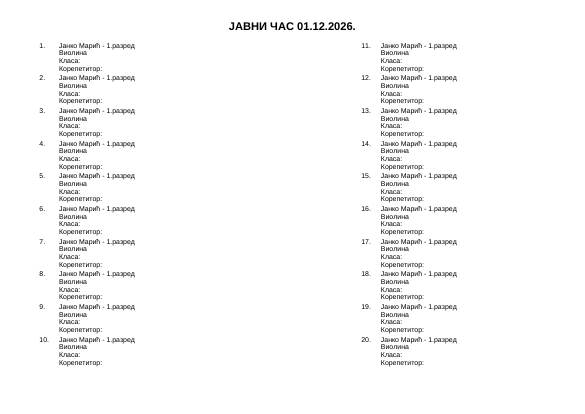
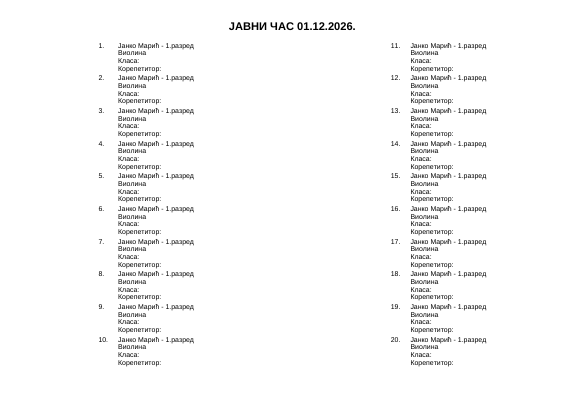
Template: center both columns horizontally on the page
Claude-Session: https://claude.ai/code/session_01LY5EZ1CyCikCN3sfjwXzPA

Changed region(s): [[0.0615, 0.087, 0.3385, 0.8986], [0.6154, 0.087, 0.8308, 0.8986]]

diff --git a/output/make_template.py b/output/make_template.py
@@ -11,6 +11,9 @@ FONT_SIZE = 10
 # Page 1: 1-10 | 11-20.  Page 2: 21-31 | 32-41.
 BREAKS = {11: WD_BREAK.COLUMN, 21: WD_BREAK.PAGE, 32: WD_BREAK.COLUMN}
 N = 41
+# Horizontal layout: each column's text is shifted by SHIFT inside its column,
+# GAP is the space between columns -> both blocks sit centered in their page half.
+SHIFT, GAP = 3, 4  # cm
 TITLE = 'ЈАВНИ ЧАС 01.12.2026.'
 
 doc = Document()
@@ -39,7 +42,7 @@ for r in h.runs:
 
 # The list goes in a continuous two-column section below the title
 sec = doc.add_section(WD_SECTION.CONTINUOUS)
-cols = OxmlElement('w:cols'); cols.set(qn('w:num'), '2'); cols.set(qn('w:space'), str(int(Cm(7).twips)))  # gap between columns
+cols = OxmlElement('w:cols'); cols.set(qn('w:num'), '2'); cols.set(qn('w:space'), str(int(Cm(GAP).twips)))  # gap between columns
 sec._sectPr.append(cols)
 
 for i in range(1, N + 1):
@@ -47,8 +50,8 @@ for i in range(1, N + 1):
     for j, text in enumerate(lines):
         p = doc.add_paragraph()
         f = p.paragraph_format
-        f.left_indent = Cm(1); f.first_line_indent = Cm(-1)
-        f.tab_stops.add_tab_stop(Cm(1))
+        f.left_indent = Cm(SHIFT + 1); f.first_line_indent = Cm(-1)
+        f.tab_stops.add_tab_stop(Cm(SHIFT + 1))
         f.keep_with_next = j < 3          # never split an entry
         if j == 3: f.space_after = Pt(3)
         if j == 0 and i in BREAKS:
